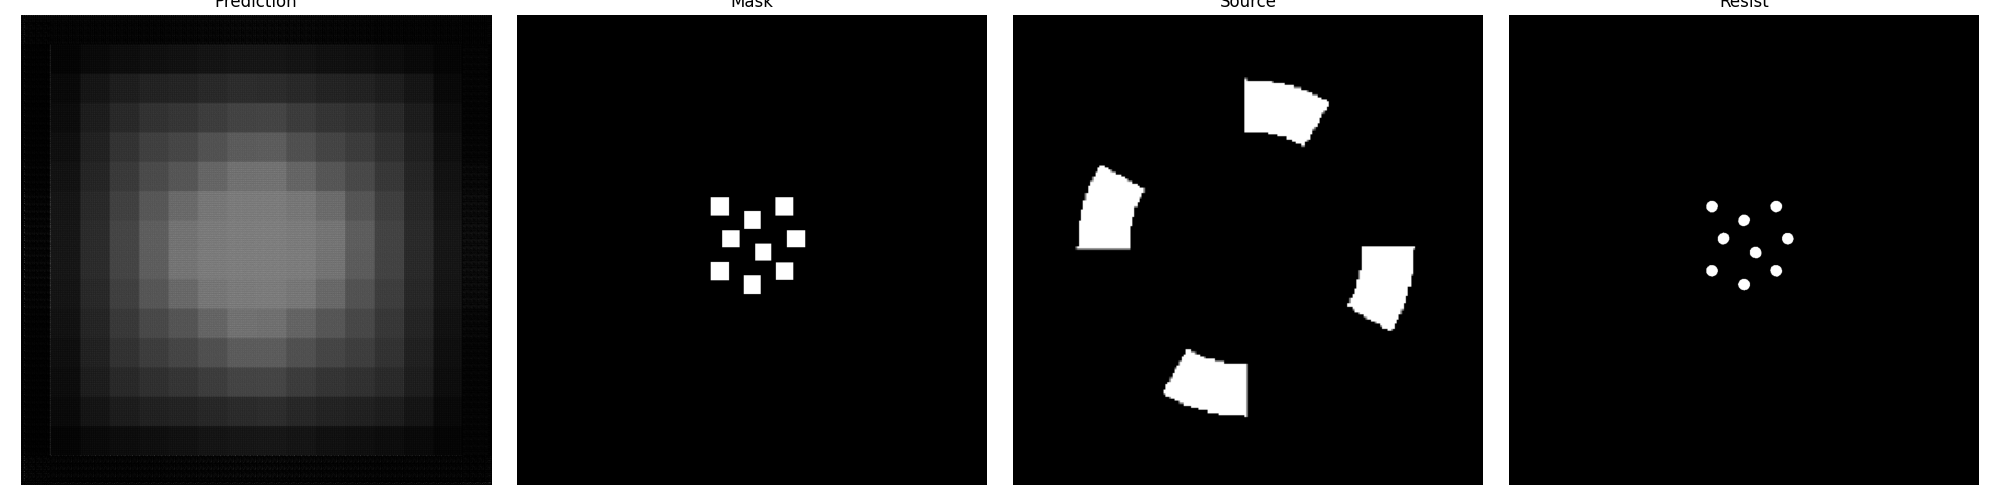
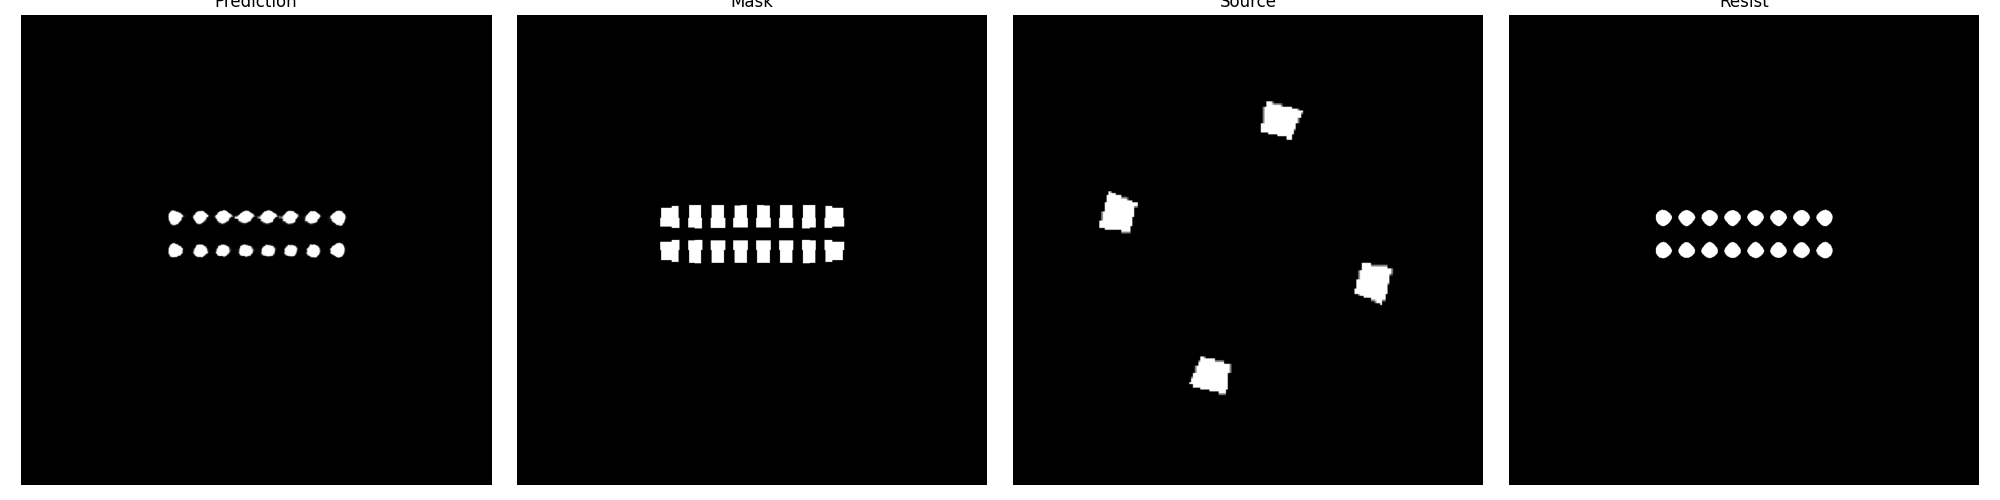
test the different parameter

diff --git a/predict.py b/predict.py
@@ -46,7 +46,8 @@ def main():
         # single_mask = mask[1:2,:,:,:]  # 第一张 mask 图像
         # single_source = source[1:2,:,:,:]  # 第一张 source 图像
         # single_resist = resist[1:2,:,:,:] # 第一张 resist 图像
-        break
+        if step > 2:
+            break
 
     device = torch.device("cuda:0" if torch.cuda.is_available() else "cpu")
 
@@ -61,10 +62,12 @@ def main():
 
 
     # create model
-    model = build_source_litho().to(device)
+    model = build_litho().to(device)
     # load model weights
+    model_weight_path = "./saved/direct_k07.pth"
     # model_weight_path = "./saved/k09.pth"
-    model_weight_path = "./weights/model-9.pth"
+
+    # model_weight_path = "./weights/model-24.pth"
 
     model.load_state_dict(torch.load(model_weight_path, map_location=device))
     model.eval()
@@ -137,7 +140,8 @@ def main():
     # show_images(pred, single_mask, single_source, single_resist, save_dir="pictures")
     
     for i in range(mask.shape[0]):
-        show_images(preds[i], mask[i:i+1, :, :, :], source[i:i+1, :, :, :], resist[i:i+1, :, :, :], save_dir="pictures", name = f"pred_{i}.png")
+        show_images(preds[i], mask[i:i+1, :, :, :], source[i:i+1, :, :, :], resist[i:i+1, :, :, :], save_dir="pictures", name = f"pred_resist_{i}.png")
+        # show_images(preds[i], mask[i:i+1, :, :, :], source[i:i+1, :, :, :], resist[i:i+1, :, :, :], save_dir="pictures", name = f"pred_{i}.png")
 
 
 if __name__ == '__main__':

diff --git a/dataset.py b/dataset.py
@@ -143,5 +143,5 @@ def lithosim(basedir, sizeImage=(512, 512), ratioTrain=0.9, cache=False):
 def loadersLitho(benchmark, image_size, batch_size, njobs, drop_last=False): 
     trainset, valset = lithosim(benchmark, sizeImage=image_size, ratioTrain=0.9, cache=False)
     train_loader = DataLoader(dataset=trainset, batch_size=batch_size, num_workers=njobs, shuffle=True, drop_last=drop_last)
-    val_loader = DataLoader(dataset=valset, batch_size=batch_size, num_workers=njobs, shuffle=True, drop_last=False)
+    val_loader = DataLoader(dataset=valset, batch_size=batch_size, num_workers=njobs, shuffle=False, drop_last=False)
     return train_loader, val_loader

diff --git a/compare_source.py b/compare_source.py
@@ -71,7 +71,7 @@ def main():
     model = build_litho().to(device)
     # load model weights
     # model_weight_path = "./saved/k06.pth"
-    model_weight_path = "./weights/model-1.pth"
+    model_weight_path = "./weights/model-12.pth"
 
     model.load_state_dict(torch.load(model_weight_path, map_location=device))
     model.eval()
